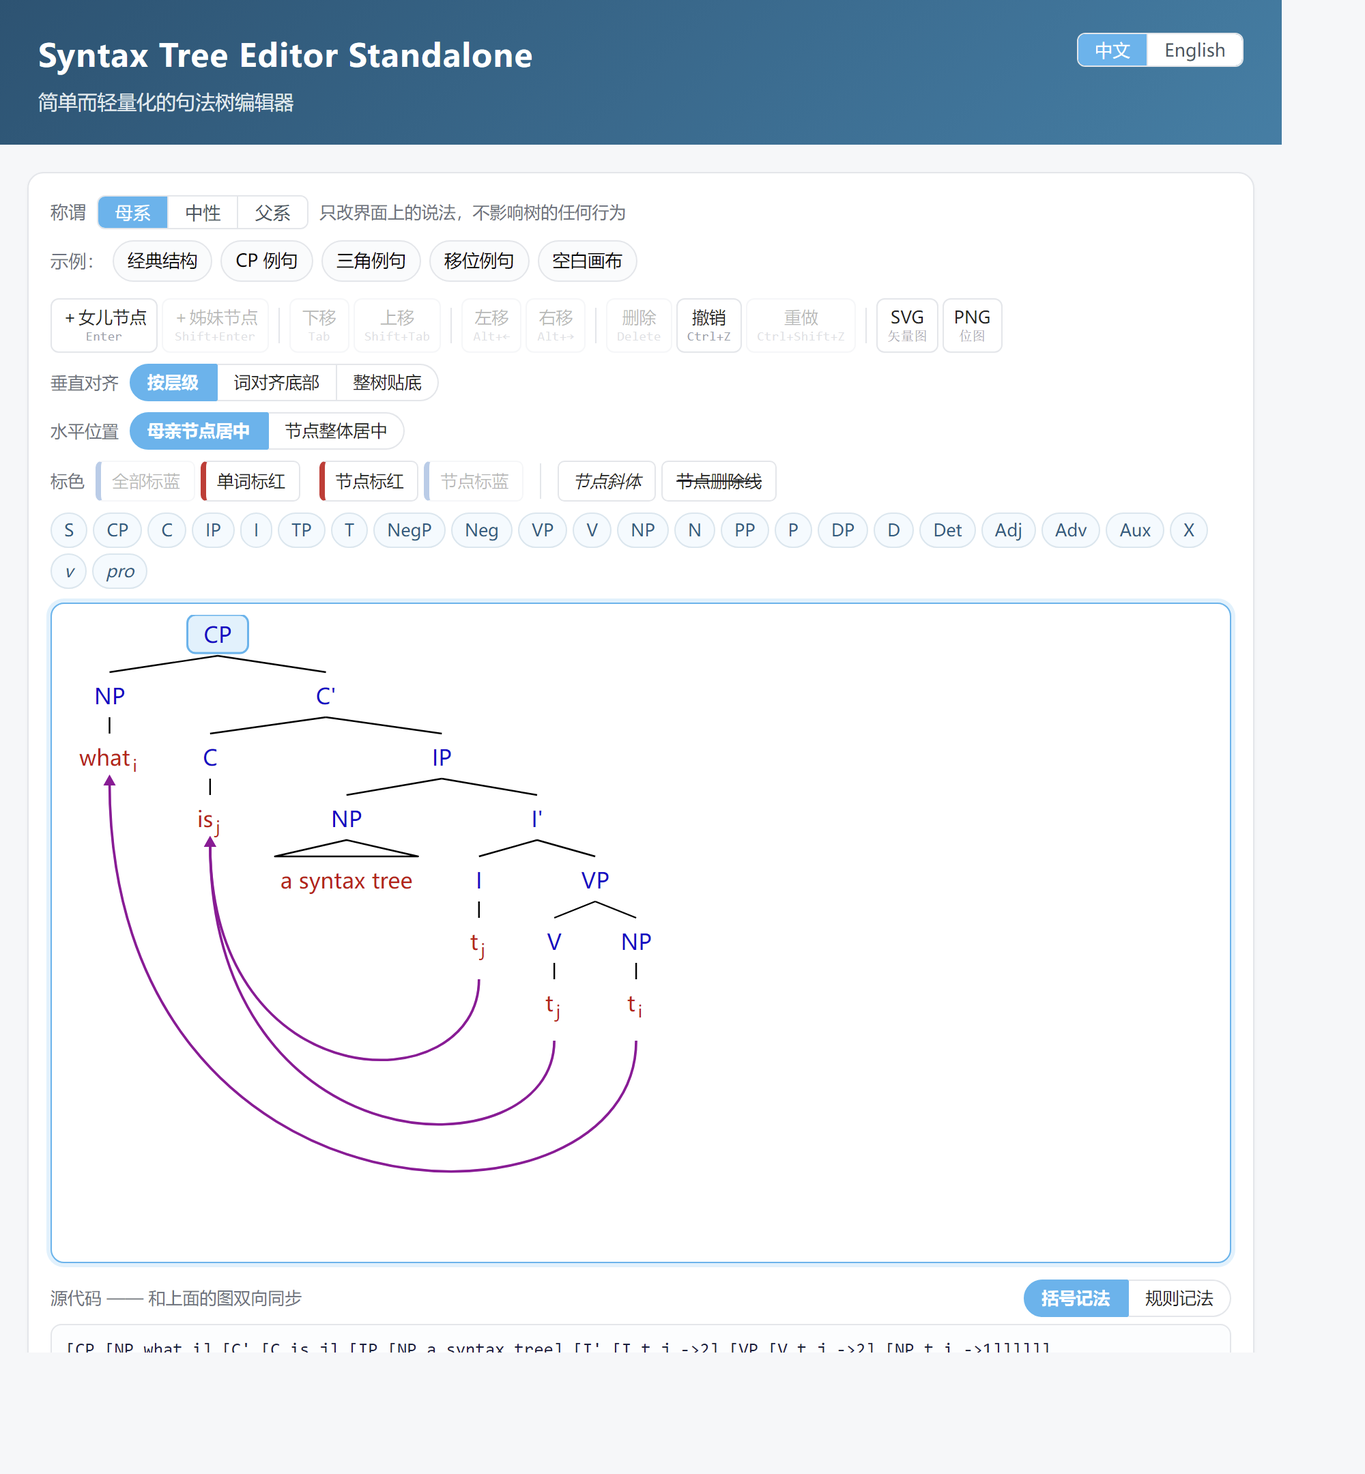
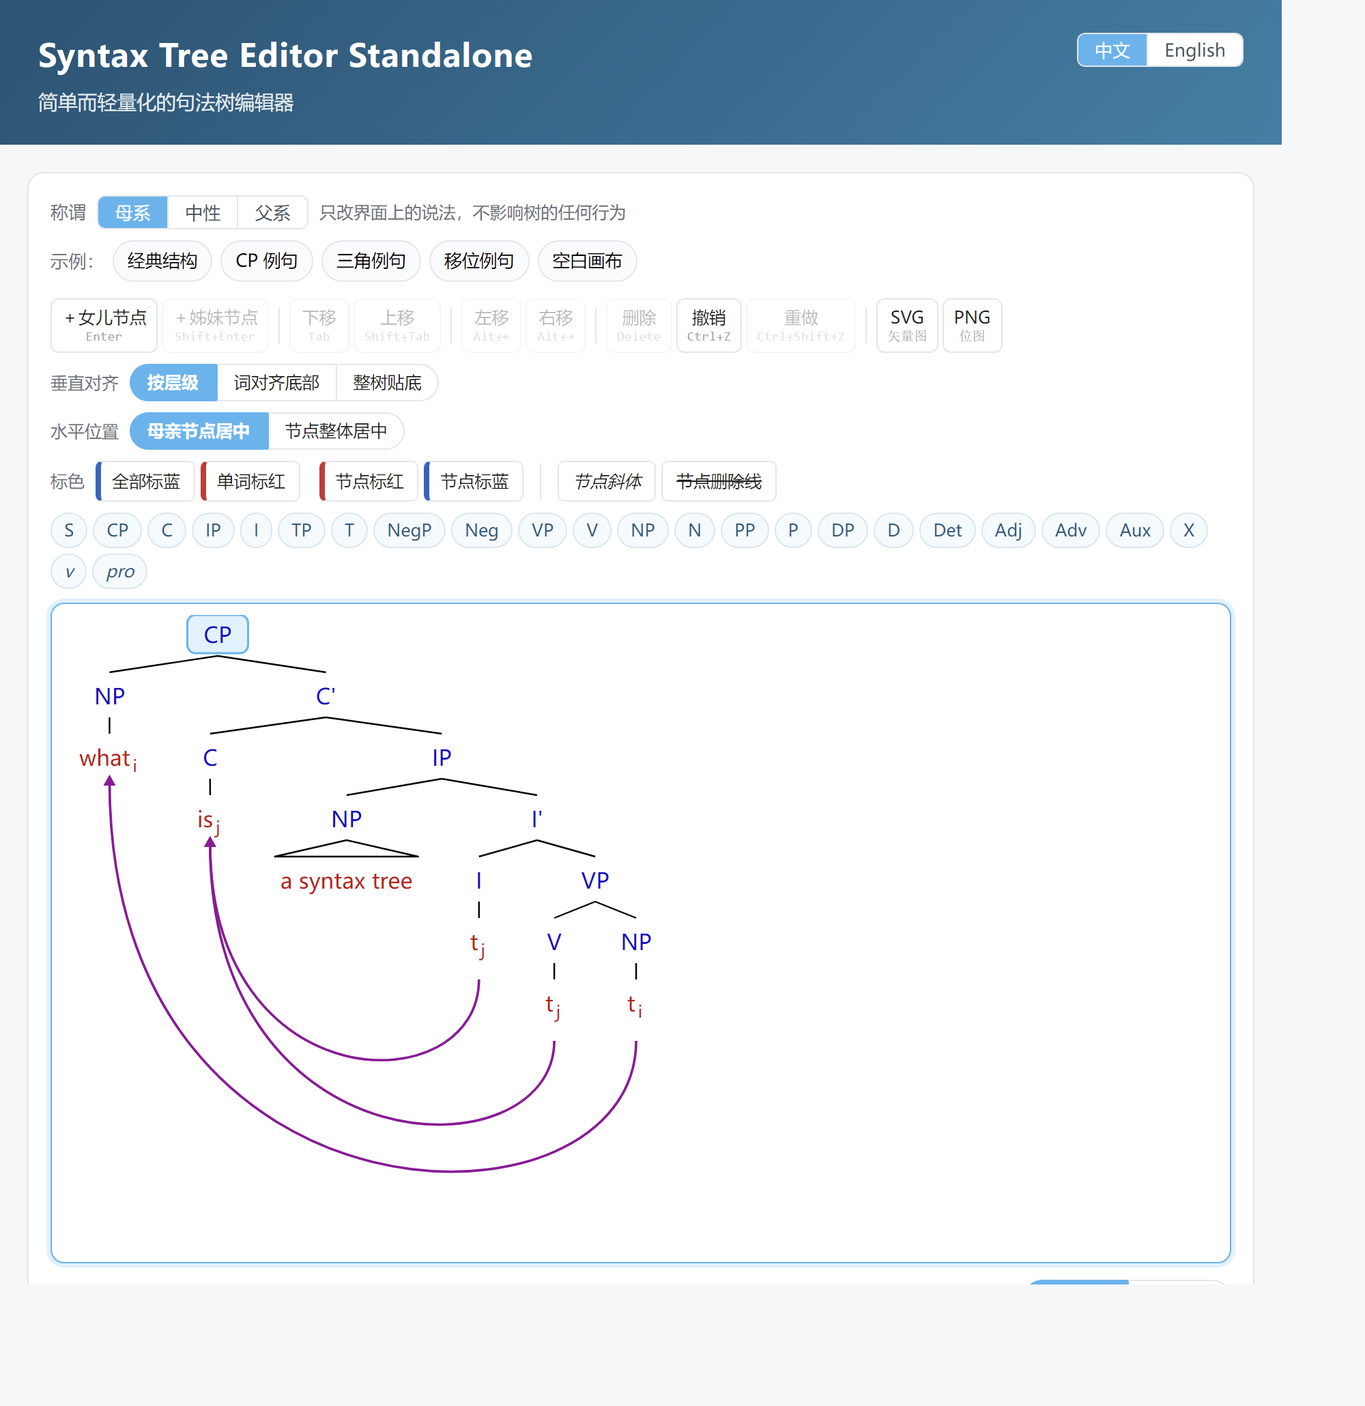
基线蓝 = 声明蓝：默认画法改用颜色声明的色值（隐式基线与写出来的声明完全一致）
作者确认：隐式基线不只是隐式的声明，色值也要和写出来的声明一致。

- src/render.js：BASELINE_FILL 直接取 COLOR_VALUES（Red = #d32f2f、Blue = #1565c0），
  删掉原来单独一套的 COLORS.leaf / COLORS.branch，默认画法不再另用 #CC0000 / #0000CC
  => 手写 Blue(words) 和什么都不写（靠基线）看起来完全一样，不会出现一棵树两种蓝
- test/editor.test.mjs：填充色断言改成引用 COLOR_VALUES（18 处）；
  新增一条隐式基线与写出来的声明是同一个色值（含点全部标蓝后逐节点还是同一个蓝）；
  颜色声明不外溢那条改用 Green(3)，因为词红现在就是声明的红
- 文档：教程 §2.7（中英）、AGENTS.md 约定 6、CHANGELOG v1.2.4、
  COLOR-BASELINE-SPEC §3.2、HANDOVER、Todolist
- screenshots/ 六张按新配色重拍（无头 Edge + 注入脚本，配方见 HANDOVER 第六部分）
- npm test：111 + 31 + 170 + 13 = 325 项全绿，一致性自检 0 个问题

diff --git a/Syntax Tree Editor Standalone.html b/Syntax Tree Editor Standalone.html
@@ -1207,9 +1207,10 @@ Red(all, 0)</pre>
           （还要带上同色的其它节点编号），其余情况才逐列编号。
         </p>
         <p>
-          基线的蓝和写出来的蓝是两个色值（<code>#0000CC</code> 与 <code>#1565c0</code>），两者混在一棵树上时
-          深浅会略有不同。想让整棵树是同一个蓝，就点<b>全部标蓝</b>（它给每个节点都写上声明，导出
-          <code>Blue(all)</code>），或者手写一行 <code>Blue(all)</code>。
+          基线的红蓝和写出来的声明红蓝是<b>同一套色值</b>（颜色名对应的色值见下面「标色」那一行旁边的按钮，
+          也就是 <code>Red</code> = <code>#d32f2f</code>、<code>Blue</code> = <code>#1565c0</code>），
+          所以手写 <code>Blue(words)</code> 和什么都不写（靠基线）看起来完全一样，
+          不会出现"一棵树两种蓝"。想看别的颜色就照常写声明，例如 <code>Green(all)</code>。
         </p>
         <p>
           声明只能写在末尾、单独成行。规则记法里声明排在所有边和位移箭头之后；
@@ -2707,10 +2708,11 @@ Red(all, 0)</pre>
   any same-coloured nodes that are not words), and a plain number list otherwise.
 </p>
 <p>
-  The baseline blue and a written blue are two different values (<code>#0000CC</code> and <code>#1565c0</code>),
-  so mixing them in one tree gives two slightly different shades. To make the whole tree one single blue, press
-  <b>All blue</b> (it writes a declaration on every node, exported as <code>Blue(all)</code>) or write a
-  <code>Blue(all)</code> line yourself.
+  The baseline red and blue are <b>the same values</b> the colour declarations use
+  (<code>Red</code> = <code>#d32f2f</code>, <code>Blue</code> = <code>#1565c0</code>), so writing
+  <code>Blue(words)</code> by hand looks exactly like writing nothing at all and letting the baseline paint
+  the words red — never two different blues in one tree. For any other colour just write the declaration,
+  for instance <code>Green(all)</code>.
 </p>
 <p>
   Declarations can only go at the end, one per line. In rule notation they come after all edges and
@@ -3795,19 +3797,21 @@ function el(tag, attrs = {}) {
   return e;
 }
 
+// 不用颜色声明时画布上的三种颜色。词红 / 范畴蓝的色值**不在这里**，见下面的 BASELINE_FILL
 const COLORS = {
-  leaf: "#CC0000",
-  branch: "#0000CC",
   mono: "#111111",
   edge: "#000000",
   arrow: "#990099",
 };
 
 /**
- * 基线的色值：style.js 的 baselineColor() 说"应该是红还是蓝"，这里说"红/蓝长什么样"。
- * 两边必须一致，否则「全部标蓝」算出来的颜色会和画布上看到的不一样。
+ * 基线的色值：style.js 的 baselineColor() 说"这个节点该红还是该蓝"，这里说"红/蓝长什么样"。
+ *
+ * ⚠ **直接取 COLOR_VALUES**（也就是颜色声明的色值表），所以隐式基线与写出来的声明
+ * 是同一个蓝同一个红 —— 手写一行 `Blue(words)` 和什么都不写（靠基线）看起来完全一样，
+ * 不会出现"一棵树两种蓝"。别在这里另写一套色值。
  */
-const BASELINE_FILL = { red: COLORS.leaf, blue: COLORS.branch };
+const BASELINE_FILL = { red: COLOR_VALUES[baselineColor(true)], blue: COLOR_VALUES[baselineColor(false)] };
 
 /**
  * @returns {{width:number, height:number}} 实际画布尺寸（已含箭头所需的下方留白）
@@ -4416,12 +4420,12 @@ class SyntaxTreeEditor {
   // 所以「标蓝」**不能靠删声明** —— 删掉之后词就回到基线的红，这正是曾经的 bug。
   // 现在两个"标蓝"都是**写上**蓝色声明。
   //
-  // ⚠ 基线的蓝（`#0000CC`）和声明蓝（`#1565c0`）是两个色值，所以：
-  //   - `markAllBlue()` **无条件给每个节点写声明**，点完整棵树是同一个蓝（导出 `Blue(all)`）；
-  //     只给"还不是蓝的"节点写会让范畴停在基线的蓝、词用声明的蓝，一棵树两种蓝。
-  //   - `markSelectedBlue()` 只看**声明**：该节点已经写着 `Blue` 就跳过（包括靠基线蓝的范畴，
-  //     免得点一下白白加一条改不动外观的声明）。
-  //   - 灰掉判定也用声明而不是"看起来蓝不蓝"（见 #updateStatus）。
+  // ⚠ 基线的蓝就是声明蓝（都取 `style.js` 的 `COLOR_VALUES.blue`，见 render.js 的 BASELINE_FILL），
+  //   所以"两种蓝"的问题从根上没有了。四个按钮的做法是：
+  //   - `markAllBlue()` 照样**无条件给每个节点写声明**：导出的文本里明明白白是 `Blue(all)`，
+  //     不依赖"运行时靠基线推算"，撤销/重做和手改文本都一致（返回是否真的改了东西）。
+  //   - `markSelectedBlue()` / `markSelectedRed()` 只看**声明**：该节点已经写着这个颜色就跳过。
+  //   - 灰掉判定也用声明而不是"看起来是不是蓝的"（见 #updateStatus）。
   //
   // 颜色是"一个节点一个颜色"，所以标红对已经带别的颜色的节点是【覆盖】。
   // 没有任何变化时（例如对已经红的词再点一次"词红"）直接返回，不压撤销历史、不产生重复声明。

diff --git a/src/editor.js b/src/editor.js
@@ -250,12 +250,12 @@ export class SyntaxTreeEditor {
   // 所以「标蓝」**不能靠删声明** —— 删掉之后词就回到基线的红，这正是曾经的 bug。
   // 现在两个"标蓝"都是**写上**蓝色声明。
   //
-  // ⚠ 基线的蓝（`#0000CC`）和声明蓝（`#1565c0`）是两个色值，所以：
-  //   - `markAllBlue()` **无条件给每个节点写声明**，点完整棵树是同一个蓝（导出 `Blue(all)`）；
-  //     只给"还不是蓝的"节点写会让范畴停在基线的蓝、词用声明的蓝，一棵树两种蓝。
-  //   - `markSelectedBlue()` 只看**声明**：该节点已经写着 `Blue` 就跳过（包括靠基线蓝的范畴，
-  //     免得点一下白白加一条改不动外观的声明）。
-  //   - 灰掉判定也用声明而不是"看起来蓝不蓝"（见 #updateStatus）。
+  // ⚠ 基线的蓝就是声明蓝（都取 `style.js` 的 `COLOR_VALUES.blue`，见 render.js 的 BASELINE_FILL），
+  //   所以"两种蓝"的问题从根上没有了。四个按钮的做法是：
+  //   - `markAllBlue()` 照样**无条件给每个节点写声明**：导出的文本里明明白白是 `Blue(all)`，
+  //     不依赖"运行时靠基线推算"，撤销/重做和手改文本都一致（返回是否真的改了东西）。
+  //   - `markSelectedBlue()` / `markSelectedRed()` 只看**声明**：该节点已经写着这个颜色就跳过。
+  //   - 灰掉判定也用声明而不是"看起来是不是蓝的"（见 #updateStatus）。
   //
   // 颜色是"一个节点一个颜色"，所以标红对已经带别的颜色的节点是【覆盖】。
   // 没有任何变化时（例如对已经红的词再点一次"词红"）直接返回，不压撤销历史、不产生重复声明。

diff --git a/src/render.js b/src/render.js
@@ -15,19 +15,21 @@ function el(tag, attrs = {}) {
   return e;
 }
 
+// 不用颜色声明时画布上的三种颜色。词红 / 范畴蓝的色值**不在这里**，见下面的 BASELINE_FILL
 const COLORS = {
-  leaf: "#CC0000",
-  branch: "#0000CC",
   mono: "#111111",
   edge: "#000000",
   arrow: "#990099",
 };
 
 /**
- * 基线的色值：style.js 的 baselineColor() 说"应该是红还是蓝"，这里说"红/蓝长什么样"。
- * 两边必须一致，否则「全部标蓝」算出来的颜色会和画布上看到的不一样。
+ * 基线的色值：style.js 的 baselineColor() 说"这个节点该红还是该蓝"，这里说"红/蓝长什么样"。
+ *
+ * ⚠ **直接取 COLOR_VALUES**（也就是颜色声明的色值表），所以隐式基线与写出来的声明
+ * 是同一个蓝同一个红 —— 手写一行 `Blue(words)` 和什么都不写（靠基线）看起来完全一样，
+ * 不会出现"一棵树两种蓝"。别在这里另写一套色值。
  */
-const BASELINE_FILL = { red: COLORS.leaf, blue: COLORS.branch };
+const BASELINE_FILL = { red: COLOR_VALUES[baselineColor(true)], blue: COLOR_VALUES[baselineColor(false)] };
 
 /**
  * @returns {{width:number, height:number}} 实际画布尺寸（已含箭头所需的下方留白）

diff --git a/index.html b/index.html
@@ -391,9 +391,10 @@ Red(all, 0)</pre>
           （还要带上同色的其它节点编号），其余情况才逐列编号。
         </p>
         <p>
-          基线的蓝和写出来的蓝是两个色值（<code>#0000CC</code> 与 <code>#1565c0</code>），两者混在一棵树上时
-          深浅会略有不同。想让整棵树是同一个蓝，就点<b>全部标蓝</b>（它给每个节点都写上声明，导出
-          <code>Blue(all)</code>），或者手写一行 <code>Blue(all)</code>。
+          基线的红蓝和写出来的声明红蓝是<b>同一套色值</b>（颜色名对应的色值见下面「标色」那一行旁边的按钮，
+          也就是 <code>Red</code> = <code>#d32f2f</code>、<code>Blue</code> = <code>#1565c0</code>），
+          所以手写 <code>Blue(words)</code> 和什么都不写（靠基线）看起来完全一样，
+          不会出现"一棵树两种蓝"。想看别的颜色就照常写声明，例如 <code>Green(all)</code>。
         </p>
         <p>
           声明只能写在末尾、单独成行。规则记法里声明排在所有边和位移箭头之后；

diff --git a/src/docs-en.js b/src/docs-en.js
@@ -358,10 +358,11 @@ Red(all, 0)</pre>
   any same-coloured nodes that are not words), and a plain number list otherwise.
 </p>
 <p>
-  The baseline blue and a written blue are two different values (<code>#0000CC</code> and <code>#1565c0</code>),
-  so mixing them in one tree gives two slightly different shades. To make the whole tree one single blue, press
-  <b>All blue</b> (it writes a declaration on every node, exported as <code>Blue(all)</code>) or write a
-  <code>Blue(all)</code> line yourself.
+  The baseline red and blue are <b>the same values</b> the colour declarations use
+  (<code>Red</code> = <code>#d32f2f</code>, <code>Blue</code> = <code>#1565c0</code>), so writing
+  <code>Blue(words)</code> by hand looks exactly like writing nothing at all and letting the baseline paint
+  the words red — never two different blues in one tree. For any other colour just write the declaration,
+  for instance <code>Green(all)</code>.
 </p>
 <p>
   Declarations can only go at the end, one per line. In rule notation they come after all edges and

diff --git a/AGENTS.md b/AGENTS.md
@@ -146,7 +146,7 @@ new SyntaxTreeEditor(elOrSelector, {
 | `setOptions(partial)` | 改选项后重绘 |
 | `setAlign(v)` / `setCenter(v)` / `setTerms(pairs)` / `setLanguage(lang)` / `setStyle({italic,bold,strike})` | 改对齐、水平位置、界面称谓、界面语言（`"zh"`/`"en"`）、选中节点的字体样式。**只动界面文字，对树没有任何影响** |
 | `createRoot()` `addChild()` `addSibling()` `addLevel()` `collapseLevel()` `moveLeft()` `moveRight()` `remove()` `setLabel(t)` | 结构编辑，都作用于当前选中节点 |
-| `markAllBlue()` `markWordsRed()` `markSelectedRed()` `markSelectedBlue()` | 颜色标记（「标色」那一行的按钮）：全部标蓝 / 单词标红 / 节点标红 / 节点标蓝。**不引入新的染色机制**，只是写上颜色声明（`Blue(all)`、`Red(3)` 这种）：两个"标蓝"都是**写上**蓝色声明（删声明会让词回基线的红，那是旧 bug），两个"标红"是写上红色声明。「全部标蓝」给**每个**节点都写声明（导出 `Blue(all)`）—— 只写"还不是蓝的"会让范畴停在基线的蓝、词用声明的蓝，一棵树两种蓝。灰掉判定看**声明**（`#isDeclaredBlue`），都返回"是否真的改了东西"，没有变化时不压撤销历史 |
+| `markAllBlue()` `markWordsRed()` `markSelectedRed()` `markSelectedBlue()` | 颜色标记（「标色」那一行的按钮）：全部标蓝 / 单词标红 / 节点标红 / 节点标蓝。**不引入新的染色机制**，只是写上颜色声明（`Blue(all)`、`Red(3)` 这种）：两个"标蓝"都是**写上**蓝色声明（删声明会让词回基线的红，那是旧 bug），两个"标红"是写上红色声明。「全部标蓝」给**每个**节点都写声明（导出 `Blue(all)`；因为基线蓝和声明蓝是同一个色值，这也是"整棵树一个蓝"的确定写法）。灰掉判定看**声明**（`#isDeclaredBlue`），都返回"是否真的改了东西"，没有变化时不压撤销历史 |
 | `toggleSelectedItalic()` `toggleSelectedStrike()` | 同一行右边的两个字体开关：给选中节点切换斜体 / 删除线（等价于加或删一行 `Italic(编号)` / `Strike(编号)` 声明），再按一次取消。粗体刻意没有按钮，只能用声明写 |
 | `undo()` / `redo()` | 撤销 / 重做 |
 | `toSvgString({background})` / `exportSvg()` / `exportPng()` | 导出 |
@@ -196,6 +196,8 @@ new SyntaxTreeEditor(elOrSelector, {
    两边的"词红、其余蓝"都从 `style.js` 的 `baselineColor()` 取（`render.js` 再用 `BASELINE_FILL` 换色值）。
    **函数式入口 `rulesToSvg()` 与命令行默认 `redWords: false`**
    （出全蓝的图）—— 作者定的：界面好看优先，机器出的图干净优先；这只改**画法**，不改基线。
+   ⚠ 基线的色值**就是颜色声明的色值**（`render.js` 的 `BASELINE_FILL` 直接取 `COLOR_VALUES`），
+   所以手写 `Blue(words)` 与什么都不写看起来一样，不会出现"一棵树两种蓝"。
    「词」= 叶子节点 **且**（是母亲节点唯一的女儿节点 **或** 带位移箭头），纯结构判定，
    不认任何词类；**唯一来源是 `layout.js` 的 `wordNodes(root)`**（"单词标红"按钮与 `words` 关键词都用它）。
    ⚠ 它和箭头用的「词序号」（`notation.js` 的 `leafOrdinals`，数**所有**叶子，

diff --git a/CHANGELOG.md b/CHANGELOG.md
@@ -39,6 +39,11 @@ Version numbers follow semantic versioning. `v1.2.1`, `v1.2.2`, `v1.2.3` and `v1
 
 ### 改动 / Changed
 
+- **基线的红蓝 = 声明写出来的红蓝**：默认画法不再另用一套色值（原来是 `#CC0000` / `#0000CC`），
+  直接取颜色声明那套（`Red` = `#d32f2f`、`Blue` = `#1565c0`）。所以什么都不写（靠基线）和手写
+  `Blue(words)` 看起来完全一样，不会出现"一棵树两种蓝" · **The baseline red and blue are now the
+  declaration values** (previously the default rendering used its own `#CC0000` / `#0000CC`), so relying on
+  the baseline and writing `Blue(words)` by hand look identical — never two blues in one tree
 - 「全部标蓝」现在给**每个**节点都写上蓝色声明（导出 `Blue(all)`），点完整棵树是同一个蓝 ·
   "All blue" now writes a blue declaration on **every** node (exported as `Blue(all)`), so the whole tree
   ends up one single blue
@@ -46,11 +51,12 @@ Version numbers follow semantic versioning. `v1.2.1`, `v1.2.2`, `v1.2.3` and `v1
   **蓝色声明**（靠基线蓝但没有声明的节点仍然可点 —— 点一下确实会改变文本）· "Node blue" now writes a
   blue declaration instead of deleting one, and the four buttons grey out from the **blue declaration**
   (a node that is blue only by the baseline can still be clicked, because clicking does change the text)
-- 基线与默认画法的"词红、其余蓝"现在**只有一个来源**（`style.js` 的 `baselineColor()`），
-  渲染与按钮判定都从这里取，测试里另有一条断言两者一致 ·
-  The baseline and the default rendering now share a single source (`baselineColor()` in `style.js`) for
-  "words red, everything else blue", used by both the renderer and the button logic, with a test asserting
-  the two agree
+- 基线与默认画法的"词红、其余蓝"现在**只有一个来源**（`style.js` 的 `baselineColor()` 决定"该红还是该蓝"、
+  `COLOR_VALUES` 决定色值），渲染、按钮判定与测试都从这里取 ·
+  The baseline and the default rendering now share a single source (`baselineColor()` in `style.js` decides
+  red-or-blue, `COLOR_VALUES` supplies the value), used by the renderer, the button logic and the tests
+- `screenshots/` 六张重新拍过（默认画布的词红/范畴蓝换成了色值表那一套）·
+  The six screenshots were retaken (the default canvas now uses the colour-table red and blue)
 
 ## v1.2.3（内部开发版，未发布 / internal, unreleased）
 

diff --git a/STRUCTURE.md b/STRUCTURE.md
@@ -65,7 +65,7 @@ Syntax Tree Editor Standalone/
 
 ### `src/docs-en.js`
 > —
-> 489 行 / 27918 字节
+> 490 行 / 27985 字节
 
 **函数**
 
@@ -75,7 +75,7 @@ Syntax Tree Editor Standalone/
 
 ### `src/editor.js`
 > 核心组件 SyntaxTreeEditor：交互、快捷键、撤销、双向同步、空白画布、装订线。
-> 1714 行 / 63316 字节
+> 1714 行 / 63364 字节
 
 私有方法以 `#` 开头，只在类内部使用。
 
@@ -317,7 +317,7 @@ Syntax Tree Editor Standalone/
 
 ### `src/render.js`
 > 把布局结果画成可交互 SVG。视觉属性全部内联，导出的图脱离页面也能看。
-> 406 行 / 17234 字节
+> 408 行 / 17583 字节
 
 **函数**
 
@@ -325,9 +325,9 @@ Syntax Tree Editor Standalone/
 | --- | --- | --- |
 | 10 | `NS` | 命中区域。事件用委托挂在 <svg> 上，节点增删不需要重新绑定。 |
 | 12 | `el` | — |
-| 18 | `COLORS` | — |
-| 30 | `BASELINE_FILL` | 基线的色值：style.js 的 baselineColor() 说"应该是红还是蓝"，这里说"红/蓝长什么样"。 |
-| 35 | `drawTree` | — |
+| 19 | `COLORS` | 不用颜色声明时画布上的三种颜色。词红 / 范畴蓝的色值**不在这里**，见下面的 BASELINE_FILL |
+| 32 | `BASELINE_FILL` | 基线的色值：style.js 的 baselineColor() 说"这个节点该红还是该蓝"，这里说"红/蓝长什么样"。 |
+| 37 | `drawTree` | — |
 
 ### `src/rules.js`
 > 规则记法 ↔ 模型：一行一条「母亲节点 → 女儿节点」。
@@ -448,7 +448,7 @@ Syntax Tree Editor Standalone/
 
 ### `test/editor.test.mjs`
 > 交互层测试（跑在 DOM 垫片上）。
-> 2155 行 / 91540 字节
+> 2176 行 / 93047 字节
 
 **函数**
 
@@ -472,10 +472,10 @@ Syntax Tree Editor Standalone/
 | 861 | `selectT` | — |
 | 994 | `fillOf` | — |
 | 1001 | `declLines` | — |
-| 1223 | `USER_RULES` | — |
-| 1532 | `NEUTRAL` | — |
-| 1533 | `FATHER` | — |
-| 1650 | `ARROW_TREE` | — |
+| 1242 | `USER_RULES` | — |
+| 1553 | `NEUTRAL` | — |
+| 1554 | `FATHER` | — |
+| 1671 | `ARROW_TREE` | — |
 
 ### `test/rules.test.mjs`
 > 规则记法测试。

diff --git a/README.md b/README.md
@@ -130,7 +130,7 @@ npm.cmd test         四套测试 + 一致性自检 / four test suites plus the 
 | --- | --- |
 | `test/smoke.mjs`（111 项） | 纯逻辑：模型、两套记法、布局、箭头，不需要浏览器<br>Pure logic: model, both notations, layout, arrows; no browser needed |
 | `test/rules.test.mjs`（31 项） | 规则记法的解析、序列化、错误信息<br>Rule notation parsing, serialisation and errors |
-| `test/editor.test.mjs`（169 项） | 交互层，跑在最小 DOM 垫片上<br>Interaction layer, on a minimal DOM shim |
+| `test/editor.test.mjs`（170 项） | 交互层，跑在最小 DOM 垫片上<br>Interaction layer, on a minimal DOM shim |
 | `test/standalone.test.mjs`（13 项） | 单文件版：模块没有遗漏、内联后可以运行<br>Standalone file: nothing missing, still runnable after inlining |
 
 修改 `src/`、`index.html` 或 `style.css` 之后必须重新构建。`npm.cmd test` 会将磁盘上的构建产物与重新构建的结果逐字节比对，缺少重新构建将直接报错。
